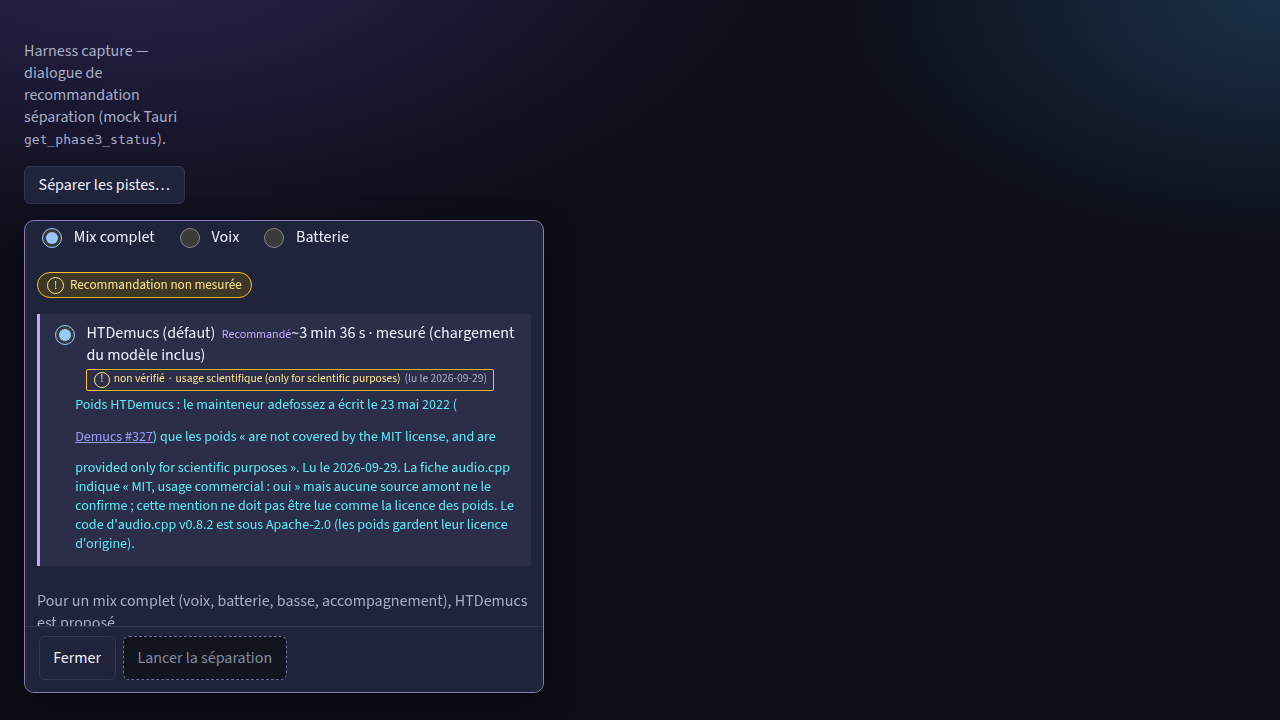
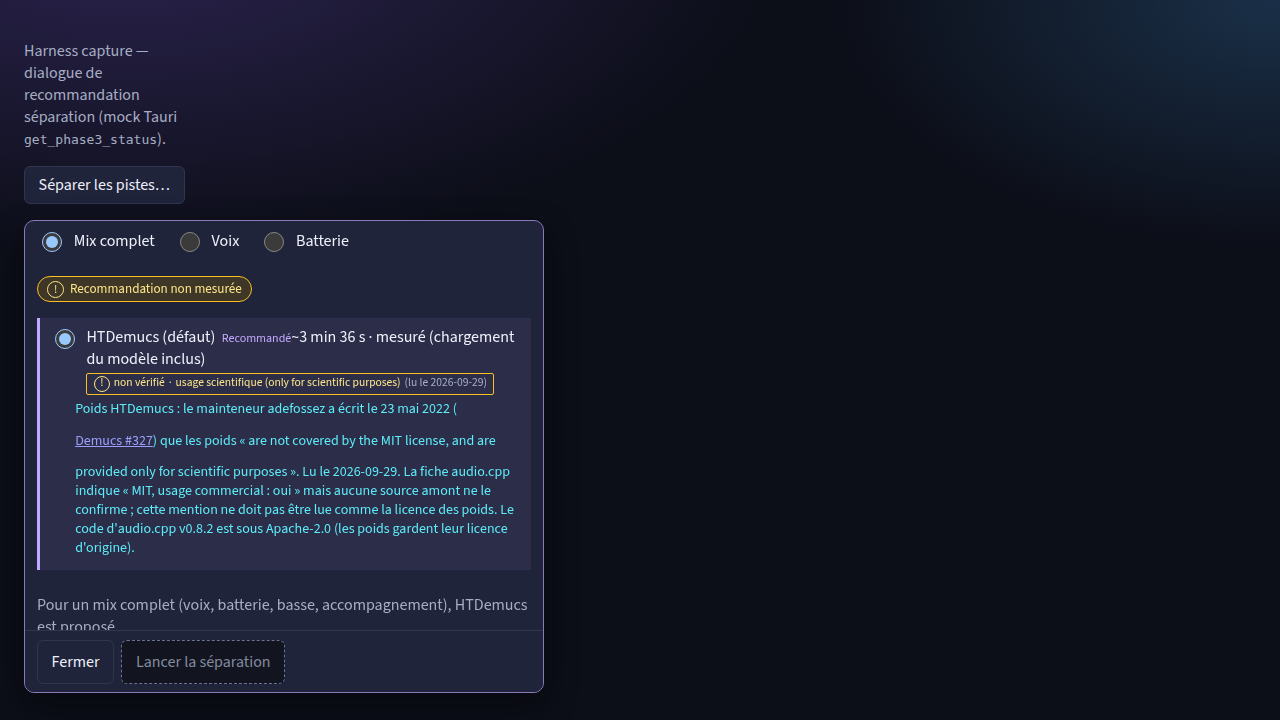
fix(a11y): I3 anneau inset sans changer hauteur barre (#186)
Remplace le padding layout (cassait zone pistes / barre 34 px) par
outline-offset -2px sur barre mix et pied popin. Captures régénérées.

diff --git a/src/App.css b/src/App.css
@@ -1038,9 +1038,7 @@ option {
 
 .production-workspace-tight .production-mix-toolbar-sticky {
   min-height: 0;
-  /* #186 I3 — réserve 4 px pour l’anneau focus (2 px + offset 2 px) ;
-   * overflow-x:auto force aussi le clip vertical sans ce padding. */
-  padding: 4px;
+  padding: 0;
   gap: 0.3rem 0.45rem;
   flex-wrap: nowrap;
   overflow-x: auto;
@@ -1267,9 +1265,13 @@ option {
   align-items: center;
   gap: 0.4rem;
   flex: 1 1 auto;
-  /* #186 I3 — l’anneau cyan ne doit pas être rogné par un ancêtre serré. */
-  padding: 4px;
-  margin: -4px;
+}
+
+/* #186 I3 — anneau focus à l’intérieur (pas de padding layout) quand un
+ * ancêtre clippe (overflow-x:auto / overflow:hidden du popin). */
+.production-mix-toolbar-actions .btn:focus-visible,
+.anchored-popin-footer .btn:focus-visible {
+  outline-offset: -2px;
 }
 
 .production-mix-saved {
@@ -6291,9 +6293,7 @@ details[open] > summary {
   display: flex;
   flex-direction: column;
   gap: 0.45rem;
-  /* #186 I3 — padding bas/latéral pour garder l’anneau focus dans le popin
-   * (overflow:hidden sur .export-dialog-popin / .separation-recommend-popin). */
-  padding: 0.55rem 0.85rem calc(0.55rem + 4px);
+  padding: 0.55rem 0.75rem;
   border-top: 1px solid var(--line);
   background: var(--bg2);
 }

diff --git a/docs/design/boutons-primaires/inventaire.md b/docs/design/boutons-primaires/inventaire.md
@@ -65,7 +65,7 @@ Hors tableau : `scoreTabBenchApp.tsx`, `sepExportA11yCaptureMain.tsx`, maquettes
 ## Points CSS (I2 / I3) — corrigés dans cette itération
 
 - **I2** — Popin export désactivé : bordure tirets **#6a7394** → **4,12:1** (page) / **3,27:1** (fond popin) ; ΔE00 face / ghost **7,66** (était ~1,51) ; face **#12151f**.
-- **I3** — Réserve padding anneau focus (barre mix toolbar + pied popin) ; preuve `production-exporter-bar-focus-i3-1280x720.png` (cyan obligatoire).
+- **I3** — Anneau focus en `outline-offset: -2px` sur barre mix + pied popin (évite le rognage sans changer la hauteur barre / zone pistes) ; preuve `production-exporter-bar-focus-i3-1280x720.png`.
 
 ## Toujours ouverts
 

diff --git a/docs/design/boutons-primaires/README.md b/docs/design/boutons-primaires/README.md
@@ -20,4 +20,4 @@ WebKitGTK, lecteur d’écran, `forced-colors`, `aria-disabled` popin Exporter (
 
 ## I2 / I3
 
-Corrigés (bordure désactivée ≥ 3:1, ΔE00 face/ghost ~7,7, padding anneau focus) — détails dans `inventaire.md`. Ticket **#186** reste ouvert : **21** usages non vérifiés.
+Corrigés (bordure désactivée ≥ 3:1, ΔE00 face/ghost ~7,7, anneau focus inset barre/popin) — détails dans `inventaire.md`. Ticket **#186** reste ouvert : **21** usages non vérifiés.

diff --git a/docs/design/boutons-primaires/contrastes.md b/docs/design/boutons-primaires/contrastes.md
@@ -1,6 +1,6 @@
 # Contrastes — boutons primaires (#186)
 
-Généré le 2026-09-30T16:45:29.975Z.
+Généré le 2026-09-30T16:53:09.478Z.
 
 Mesures DOM : `getComputedStyle` (dégradé / fond plat, `color(srgb …/α)` résolu) composé sur `--bg0`.
 - États actifs : seuil WCAG 2.2 AA **4.5:1**.
